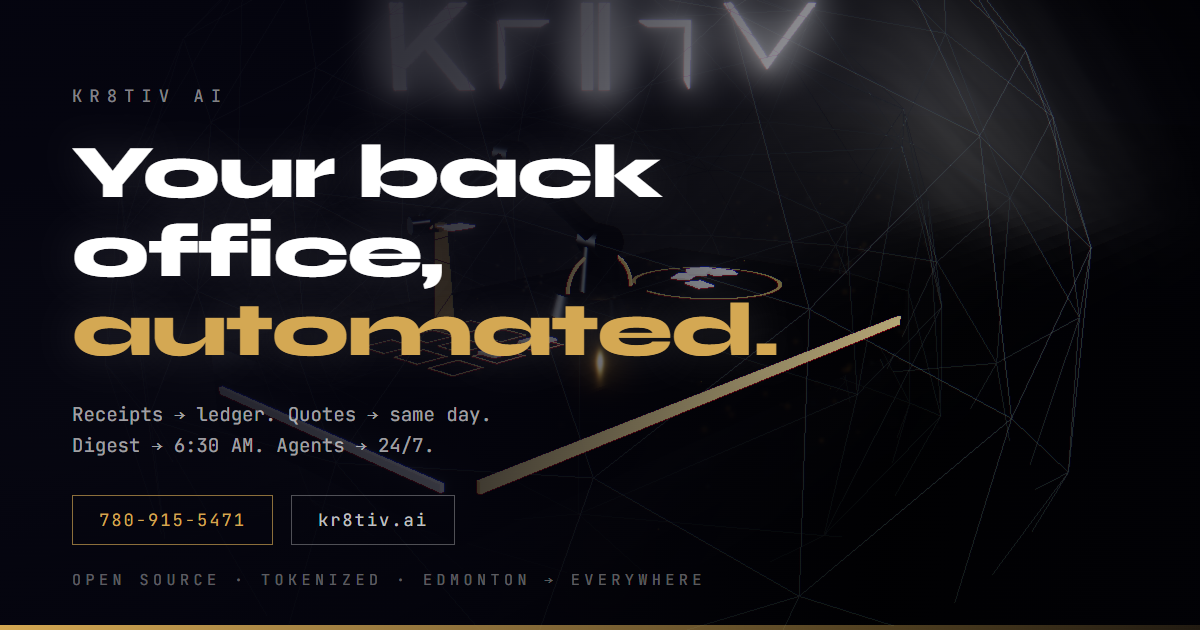
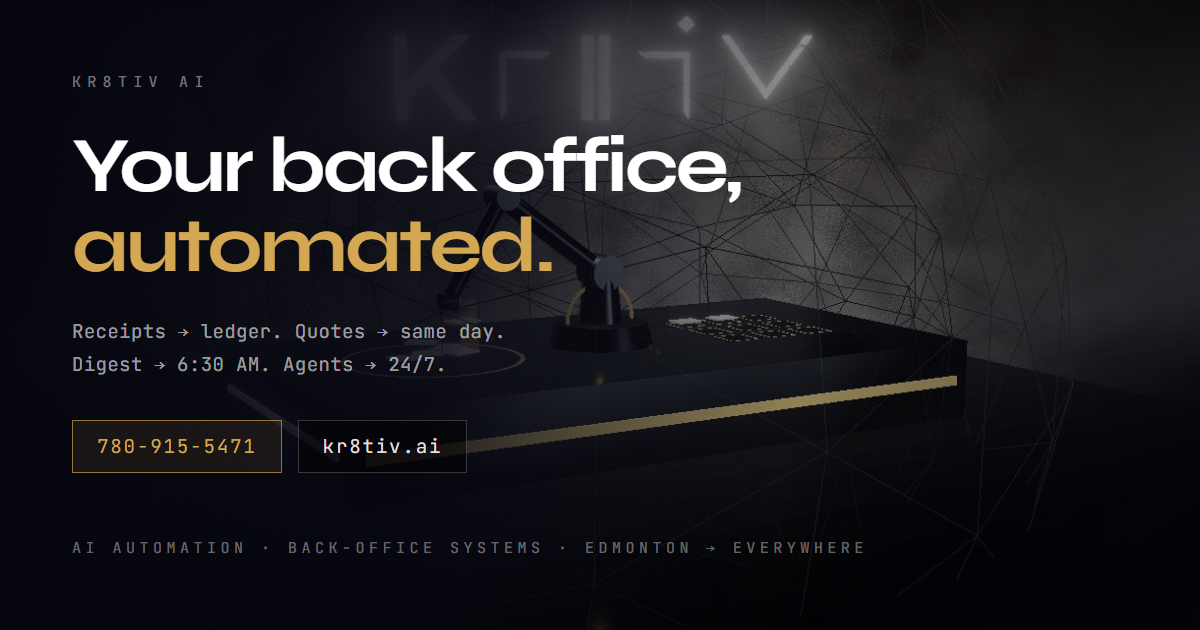
fix: loading overlay never unmounted (site was entirely unclickable)
The dismiss timeout lived in the loading screen effect's cleanup, so the
setFadeOut() re-render cancelled the very timeout that unmounts the
overlay. It stayed mounted at opacity 0 as a fixed inset-0 z-100 layer,
swallowing every click on the site - CTAs, phone links, nav, everything -
and onDone() never fired, so the intro sequence never played either.
Present on the live site too.

- dismiss timer moved to a ref, cleared only on unmount
- pointer-events-none as soon as it fades, as a second line of defence
- 12s dead-man switch if progress never settles
- intro sequence trimmed 5.5s -> ~2.6s now that it actually plays (the
  loading screen already showed the wordmark)

Also: regenerated og-card.png - the old one had "OPEN SOURCE - TOKENIZED"
burned into the artwork.

diff --git a/src/components/LoadingScreen.tsx b/src/components/LoadingScreen.tsx
@@ -1,4 +1,4 @@
-import { useState, useEffect } from 'react'
+import { useState, useEffect, useRef } from 'react'
 import { useProgress } from '@react-three/drei'
 
 interface LoadingScreenProps {
@@ -6,33 +6,55 @@ interface LoadingScreenProps {
   onDone?: () => void
 }
 
+/** Dead-man switch: lift the curtain even if the loader never reports 100%. */
+const MAX_HOLD_MS = 12000
+
 export default function LoadingScreen({ forceComplete = false, onDone }: LoadingScreenProps) {
   const { progress, active } = useProgress()
   const [visible, setVisible] = useState(true)
   const [fadeOut, setFadeOut] = useState(false)
+  const startedRef = useRef(false)
+  const timerRef = useRef<number | undefined>(undefined)
   const displayProgress = forceComplete ? 100 : progress
 
+  // The dismiss timer lives in a ref, NOT in effect cleanup. Previously the
+  // setFadeOut() re-render re-ran this effect, whose cleanup cancelled the very
+  // timeout that unmounts the overlay — so it stayed mounted at opacity 0,
+  // fixed inset-0 z-100, swallowing every click on the site.
   useEffect(() => {
-    if (fadeOut) {
-      return
-    }
+    if (startedRef.current) return
+    if (!(forceComplete || (!active && progress >= 100))) return
 
-    if (forceComplete || (!active && progress >= 100)) {
+    startedRef.current = true
+    setFadeOut(true)
+    timerRef.current = window.setTimeout(() => {
+      setVisible(false)
+      onDone?.()
+    }, 1200)
+  }, [active, forceComplete, progress, onDone])
+
+  // Failsafe: if progress never settles (stalled asset, odd browser), dismiss anyway.
+  useEffect(() => {
+    const failsafe = window.setTimeout(() => {
+      if (startedRef.current) return
+      startedRef.current = true
       setFadeOut(true)
-      const timer = setTimeout(() => {
+      timerRef.current = window.setTimeout(() => {
         setVisible(false)
         onDone?.()
-      }, 1200)
-      return () => clearTimeout(timer)
-    }
-  }, [active, fadeOut, forceComplete, progress, onDone])
+      }, 800)
+    }, MAX_HOLD_MS)
+    return () => window.clearTimeout(failsafe)
+  }, [onDone])
+
+  useEffect(() => () => window.clearTimeout(timerRef.current), [])
 
   if (!visible) return null
 
   return (
     <div
       className={`fixed inset-0 z-[100] flex items-center justify-center bg-[#050510] transition-opacity duration-1000 ${
-        fadeOut ? 'opacity-0' : 'opacity-100'
+        fadeOut ? 'opacity-0 pointer-events-none' : 'opacity-100'
       }`}
     >
       <div className="text-center">

diff --git a/src/components/IntroSequence.tsx b/src/components/IntroSequence.tsx
@@ -28,32 +28,34 @@ export default function IntroSequence({ onComplete, startAnimation = true }: Int
     })
     tlRef.current = tl
 
-    // Phase 1 (0-1.5s): "kr8tiv" fades in
+    // The whole beat is kept under ~2.6s: the loading screen already showed the
+    // wordmark, so a longer curtain is just dead time before the hero.
+    // Phase 1: "kr8tiv" fades in
     tl.fromTo(
       titleRef.current,
       { opacity: 0, y: 20 },
-      { opacity: 1, y: 0, duration: 1.2, ease: 'power2.out' },
-      0.3
+      { opacity: 1, y: 0, duration: 0.7, ease: 'power2.out' },
+      0.15
     )
 
-    // Phase 2 (1.5-3s): Tagline fades in
+    // Phase 2: Tagline fades in
     tl.fromTo(
       taglineRef.current,
       { opacity: 0, y: 10 },
-      { opacity: 1, y: 0, duration: 1, ease: 'power2.out' },
-      1.5
+      { opacity: 1, y: 0, duration: 0.6, ease: 'power2.out' },
+      0.7
     )
 
-    // Phase 3 (3-5s): Everything fades out
+    // Phase 3: Everything fades out
     tl.to(
       [titleRef.current, taglineRef.current],
-      { opacity: 0, duration: 1, ease: 'power2.in' },
-      3.5
+      { opacity: 0, duration: 0.6, ease: 'power2.in' },
+      1.65
     )
     tl.to(
       containerRef.current,
-      { opacity: 0, duration: 1.5, ease: 'power2.inOut' },
-      4
+      { opacity: 0, duration: 0.8, ease: 'power2.inOut' },
+      1.8
     )
 
     return () => {

diff --git a/public/work/evolve/index.html b/public/work/evolve/index.html
@@ -61,7 +61,7 @@
       <div class="wrap">
         <a class="brand" href="../../">kr8tiv AI <span>Back offices, automated</span></a>
         <nav class="topnav" aria-label="Primary">
-          <a href="../../" >Home</a>
+          <a href="../../">Home</a>
           <a href="./" aria-current="page">Case study</a>
           <a href="../../jarvis/">JARVIS</a>
           <a href="../../kin/">KIN</a>
